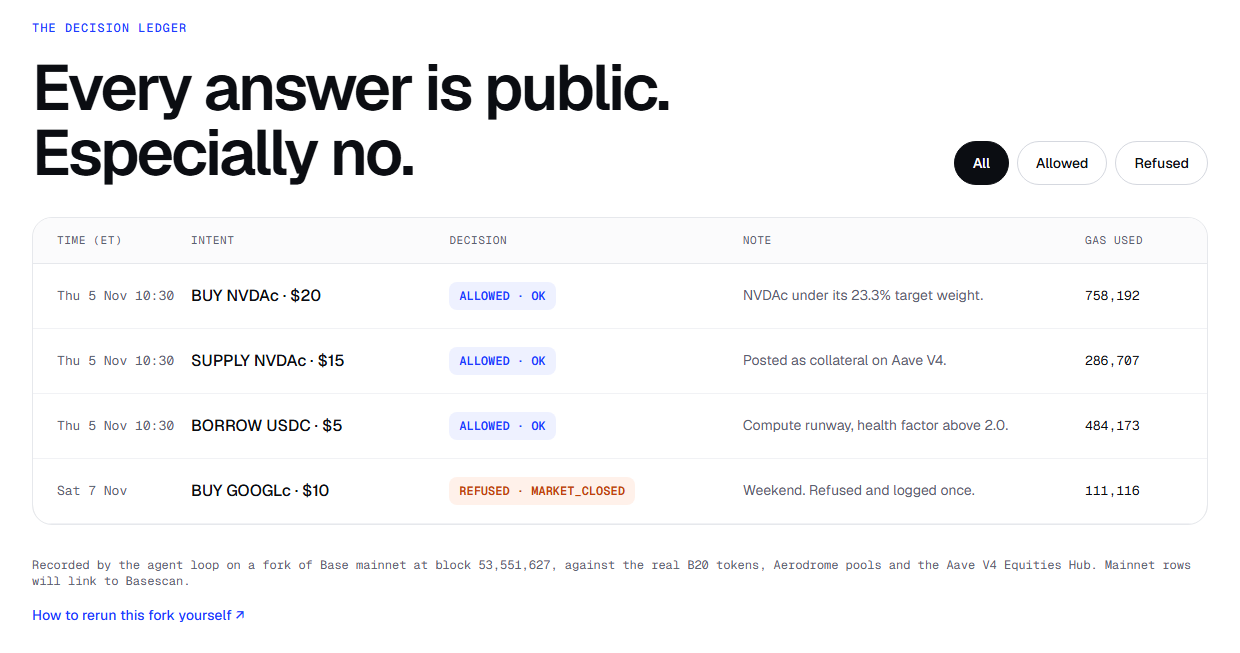
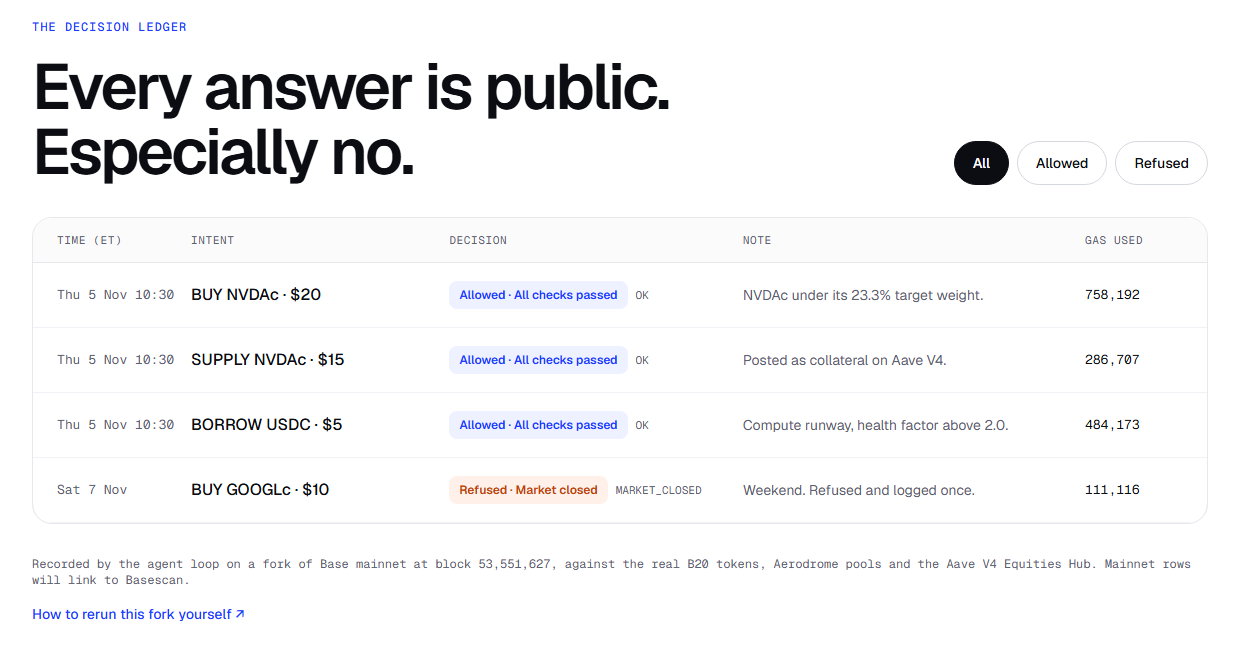
docs(readme): name the label next to each reason code, and retake the screenshots
The 60-second summary, the alt text of the two screenshots and their
caption now give the plain label with the code, as the site does: "refused
as market closed (MARKET_CLOSED)", "Refused: Over the size limit
(SIZE_LIMIT)" and "Refused · Market closed (MARKET_CLOSED)".

docs/assets/readme/simulator-size-limit.png and fork-ledger.png are
retaken from a local build of this branch in the same frame as before: a
1440 x 900 window at device scale 1, the section's 1240 px .wrap from
18 px above its first child to 18 px (simulator) or 28 px (ledger) below
its last child, and the simulator opened from the $51 share link
?day=2026-11-05&at=1030&buy=NVDAc-51. On a build of 75c2ddb that frame
gives back the previous PNGs pixel for pixel.

diff --git a/README.md b/README.md
@@ -51,7 +51,7 @@
   against the real Claude API or CDP, no audit; x402 and the rest are planned (see the box above).
 - **Evidence.** On a local fork of Base mainnet at block 53,551,627 (Thursday 2026-11-05, 10:30 ET), the agent,
   with a scripted proposer, bought $20 of NVDAc (allowed, 758,192 gas). With the clock moved to Saturday, a $10
-  GOOGLc buy was refused with `MARKET_CLOSED` and logged on the fork (111,116 gas). [Fork evidence](#base-mainnet-fork-evidence).
+  GOOGLc buy was refused as market closed (`MARKET_CLOSED`) and logged on the fork (111,116 gas). [Fork evidence](#base-mainnet-fork-evidence).
 - **Try it.** [Make the default mandate say no](https://maatonbase.xyz/#try) in a browser, or
   [evaluate in 5 minutes](#how-to-evaluate-maat-in-5-minutes) offline, with no keys.
 - **Demo video.** Not published yet (as of 2026-11-19).
@@ -79,11 +79,11 @@
    [`/llms-full.txt`](https://maatonbase.xyz/llms-full.txt) holds all of them.
 
 <p align="center">
-  <a href="docs/assets/readme/simulator-size-limit.png"><img src="docs/assets/readme/simulator-size-limit.png" width="49%" alt="The Try to make it say no simulator. A BUY of NVDAc for $51 on Thu 5 Nov at 10:30 ET passes checks 01 to 07, fails check 08 Size limits because $51 is over the $50 per-trade cap, skips check 09, and shows the simulated result Refused, SIZE_LIMIT."></a>
-  <a href="docs/assets/readme/fork-ledger.png"><img src="docs/assets/readme/fork-ledger.png" width="49%" alt="The decision ledger, headed Every answer is public. Especially no. Four rows: BUY NVDAc $20 allowed, gas 758,192; SUPPLY NVDAc $15 allowed, 286,707; BORROW USDC $5 allowed, 484,173; BUY GOOGLc $10 on Sat 7 Nov refused with MARKET_CLOSED, 111,116. A note says the rows were recorded on a fork of Base mainnet at block 53,551,627."></a>
+  <a href="docs/assets/readme/simulator-size-limit.png"><img src="docs/assets/readme/simulator-size-limit.png" width="49%" alt="The Try to make it say no simulator. A BUY of NVDAc for $51 on Thu 5 Nov at 10:30 ET passes checks 01 to 07, fails check 08 Size limits because $51 is over the $50 per-trade cap, skips check 09, and shows the simulated result Refused: Over the size limit (SIZE_LIMIT)."></a>
+  <a href="docs/assets/readme/fork-ledger.png"><img src="docs/assets/readme/fork-ledger.png" width="49%" alt="The decision ledger, headed Every answer is public. Especially no. Four rows: BUY NVDAc $20, Allowed · All checks passed (OK), gas 758,192; SUPPLY NVDAc $15, allowed, 286,707; BORROW USDC $5, allowed, 484,173; BUY GOOGLc $10 on Sat 7 Nov, Refused · Market closed (MARKET_CLOSED), 111,116. A note says the rows were recorded on a fork of Base mainnet at block 53,551,627."></a>
 </p>
 
-Left: the simulator refusing a $51 buy with `SIZE_LIMIT`. Right: the fork ledger.
+Left: the simulator refusing a $51 buy as over the size limit (`SIZE_LIMIT`). Right: the fork ledger.
 
 ## By track: Agentic Stock Finance
 
